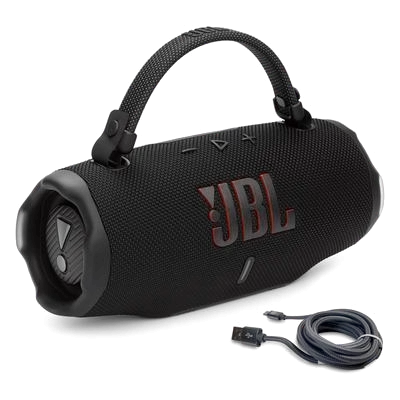
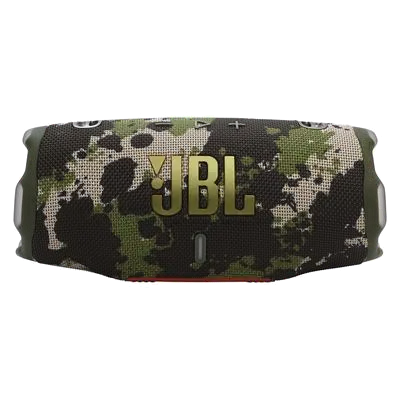
JBL Charge 6 Squad: la foto oficial del camuflado y el color con el nombre de JBL (decisión 2 A)
Benja, 22/10/2026: la foto de AT-0448-01 «Charge 6 (Camo)» era un Charge 6
NEGRO con un cable USB (que no viene). JBL llama Squad a ese camuflado
(JBLCHARGE6SQUAD).

- Foto: la oficial de JBL del Charge 6 Squad, de frente
  (https://www.jbl.com.sg/bluetooth-portables/JBLCHARGE6SQUAD.html, archivo
  JBL_CHARGE_6_SQUAD_FRONT_004_x1.png; jbl.com de EE. UU. no deja bajar).
  Mismo tratamiento que herramientas/bajar-fotos.py (fondo recortado, 840 px
  dentro de 900x900 blanco, JPEG calidad 90). La chica y las sin fondo, con
  herramientas/miniaturas.py. Mirada: camuflado verde, negro y beige, logo
  dorado y los enganches de la correa del Charge 6. Anotada a mano en
  fotos-revisadas.txt con su origen.
- Maestro: AT-0448 pasa a «Charge 6 (Squad)» con la variante Squad. «Camo»
  queda en Escrituras y el nombre viejo en Nombres_vistos, así que
  fotos/indice.json lleva camo y squad a la misma foto: la web la muestra
  antes y después de que ADVAPP cambie.
- COLORES: 'squad':'#4E4A3B', medido en la foto nueva. Es el promedio de lo
  que no es fondo. El tono que más se repite (herramientas/colores-nuevos.py)
  es una mancha negra, y el puntito se confundía con un Charge 6 negro.
- correcciones-confirmadas.json: AUD-JBL-002 color Squad y nombre
  «Charge 6 (Squad)». pedido-advapp.py lo pide mientras ADVAPP diga Camo.
- p/AUD-JBL-002.html: la foto ahora mide 900x900 (era 2000x2000), lo mismo
  que escribiría vista-previa.py.
[…]

diff --git a/index.html b/index.html
@@ -6848,7 +6848,14 @@ const COLORES = {
      gris verdoso del Edge 60 Pro (PANTONE Shadow, AT-0604-01), el celeste del
      Edge 70 Fusion (PANTONE Country Air, AT-0606-03) y el verde agua del
      Galaxy S25 Mint (AT-0615-01). Sin ellos salian sin puntito. */
-  'shadow':'#7B827A', 'country air':'#BAC7D4', 'mint':'#D7E6D8'
+  'shadow':'#7B827A', 'country air':'#BAC7D4', 'mint':'#D7E6D8',
+  /* 22/10/2026, el camuflado del JBL Charge 6, que JBL llama Squad
+     (AT-0448-01, foto oficial de JBL). Es un estampado: el tono que mas se
+     repite (herramientas/colores-nuevos.py) es una mancha negra, #25221B, y
+     el puntito se confundia con un Charge 6 negro. Va el promedio de lo que
+     no es fondo en esa foto, el caqui oscuro que se ve de lejos. El 'camo'
+     de arriba queda para las filas que todavia lo escriban asi. */
+  'squad':'#4E4A3B'
 };
 
 // El tono de un nombre suelto, o null si no lo sabemos pintar. Si el nombre

diff --git a/p/AUD-JBL-002.html b/p/AUD-JBL-002.html
@@ -15,8 +15,8 @@
 <meta property="og:description" content="Camo">
 <meta property="og:url" content="https://catalogo.advancetecno.com.ar/p/AUD-JBL-002.html">
 <meta property="og:image" content="https://catalogo.advancetecno.com.ar/fotos/AT-0448-01.jpg">
-<meta property="og:image:width" content="2000">
-<meta property="og:image:height" content="2000">
+<meta property="og:image:width" content="900">
+<meta property="og:image:height" content="900">
 <meta property="og:image:alt" content="JBL Charge 6 · Camo">
 <meta name="twitter:card" content="summary">
 <meta name="twitter:title" content="JBL Charge 6">
@@ -42,7 +42,7 @@
 </head>
 <body>
 <main>
-  <img src="../fotos/AT-0448-01.jpg" alt="JBL Charge 6 · Camo" width="2000" height="2000">
+  <img src="../fotos/AT-0448-01.jpg" alt="JBL Charge 6 · Camo" width="900" height="900">
   <div class="t">
     <h1>JBL Charge 6</h1>
     <p>Camo</p>
